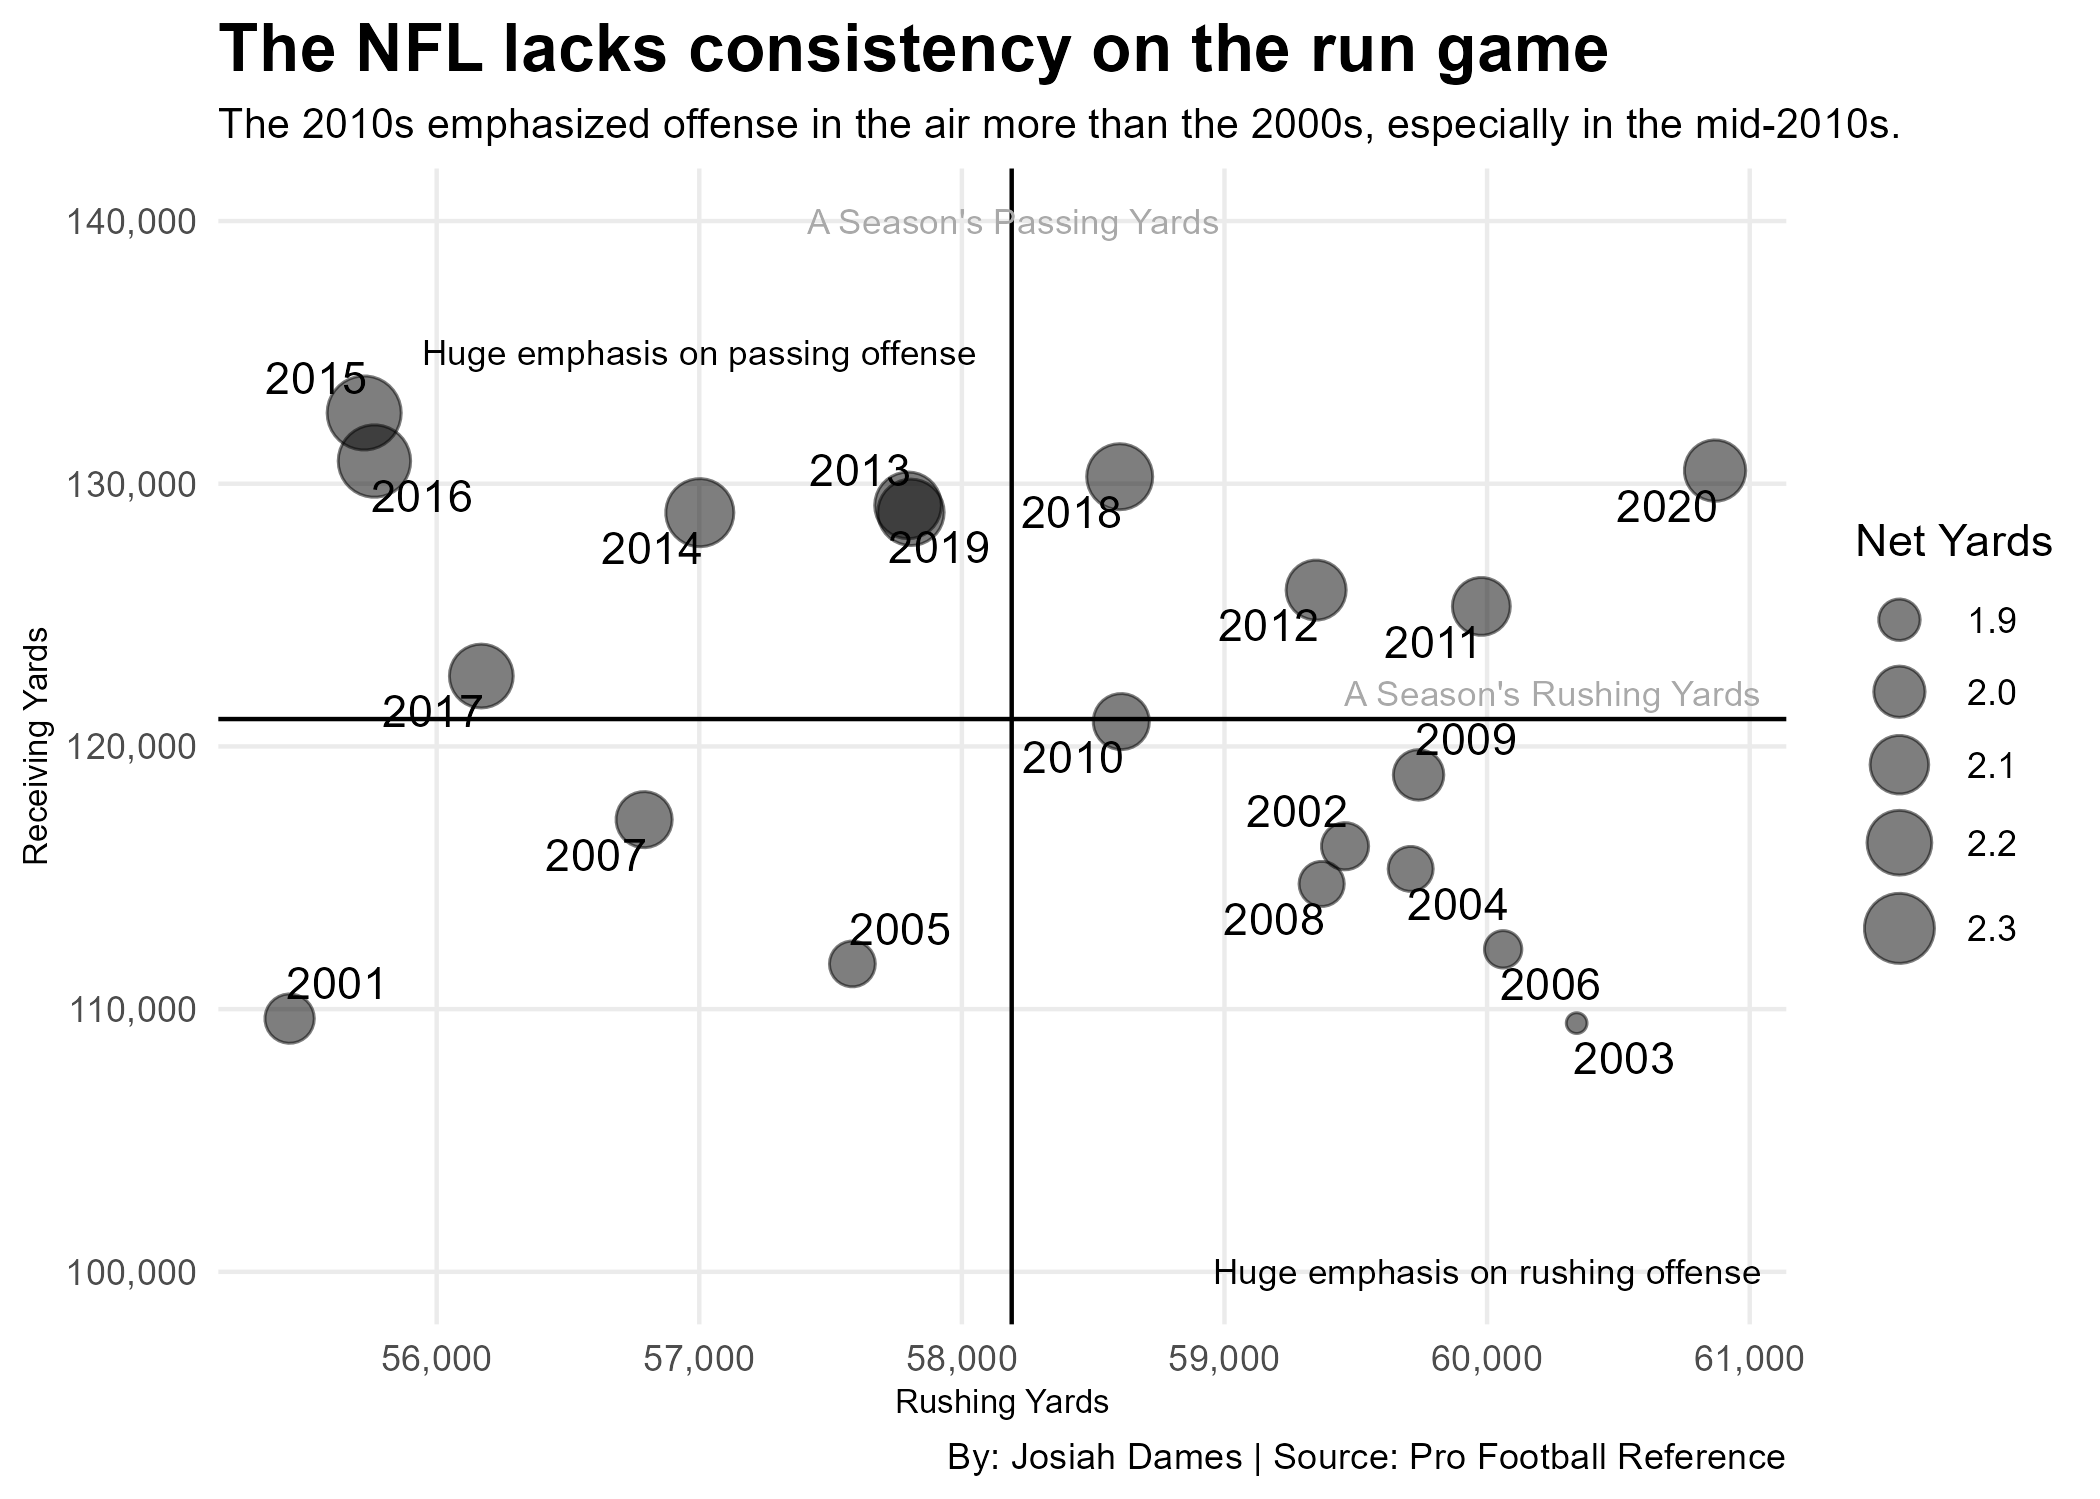
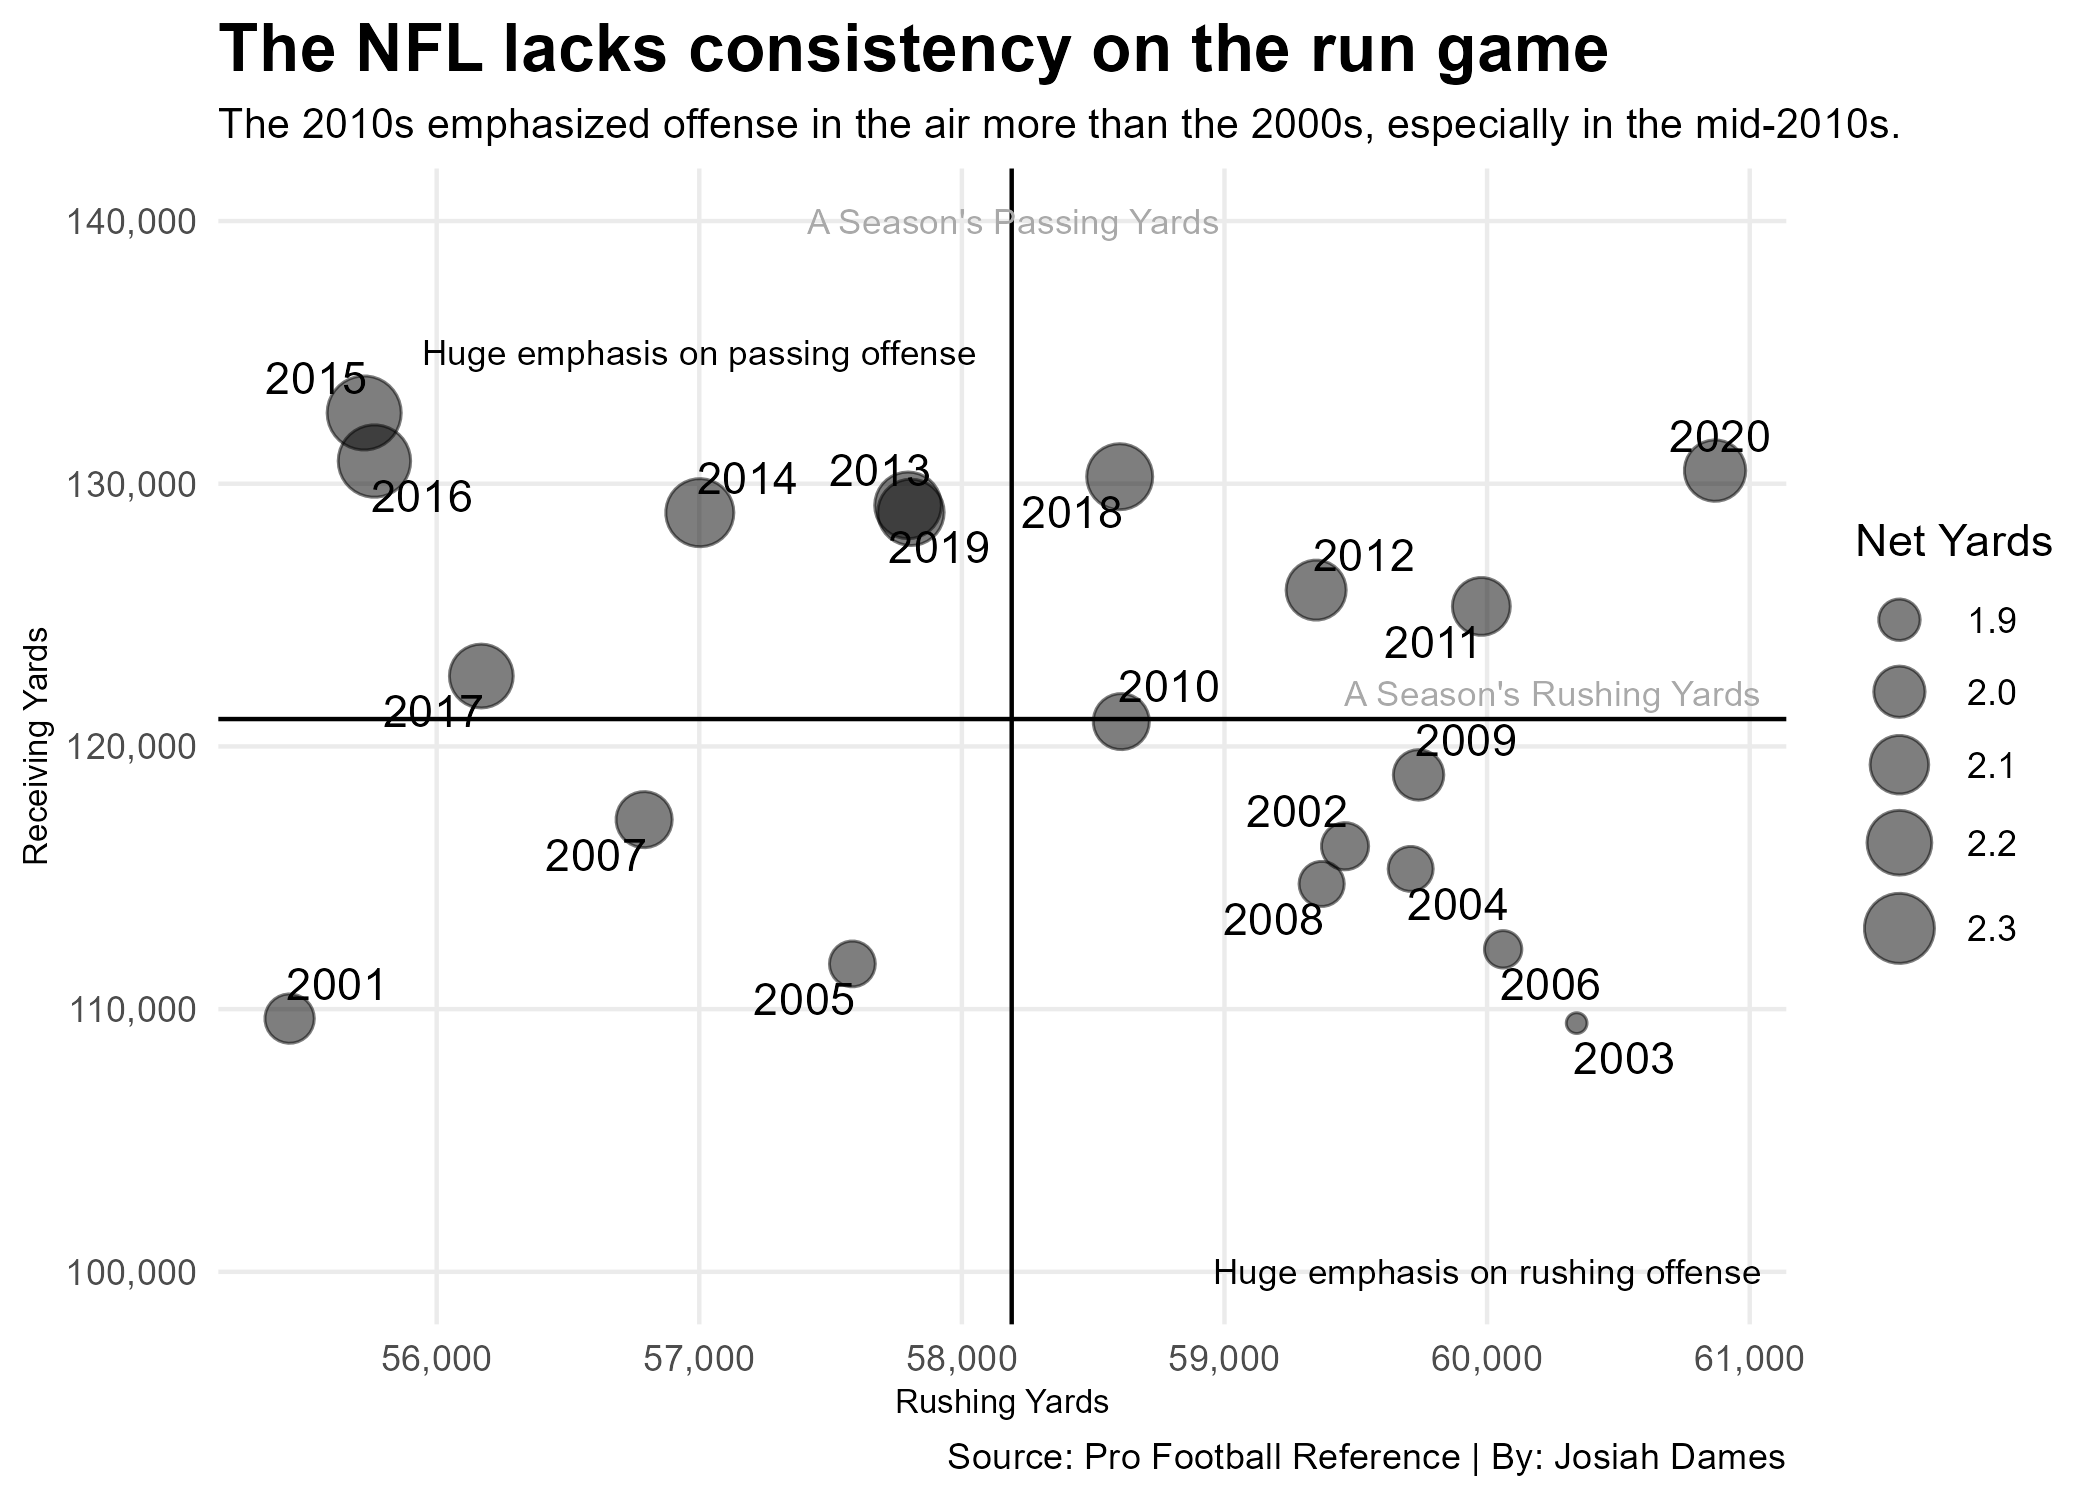
Initial Comment

diff --git a/posts/nfl-passing-or-rushing-league/index.html b/posts/nfl-passing-or-rushing-league/index.html
@@ -188,7 +188,6 @@ pre > code.sourceCode > span > a:first-child::before { text-decoration: underlin
 
 
 
-<p>happy</p>
 <p>When you think of the modern NFL, what players do you think of? Most of the time, people think of elite quarterbacks or wide receivers or running backs. The names range from Patrick Mahomes to Justin Jefferson to Derrick Henry.</p>
 <p>However, there was an issue brewing recently that sparked controversy in the NFL: Running backs weren’t being paid as well as they should. Running backs like Johnathan Taylor and Josh Jacobs were having contract issues throughout 2023. There were even kickers that were out earning running backs.</p>
 <p>This begs some questions: Is the position of running back dying in the NFL? Is the NFL focusing on the passing game? Let’s look at the last two decades, 2001-2010 and 2011-2020. With the exception of the 2001 season, each season had 32 teams playing. This was also before the NFL officially moved to a 17-game regular season.</p>
@@ -262,7 +261,7 @@ dbl (15): Rank, Year, Tms, RushingAttempts, RushingYards, RushingTD, Rushing...
 <span id="cb5-28"><a href="#cb5-28" aria-hidden="true" tabindex="-1"></a>    <span class="at">x =</span> <span class="st">"Rushing Yards"</span>, <span class="at">y =</span> <span class="st">"Receiving Yards"</span>,</span>
 <span id="cb5-29"><a href="#cb5-29" aria-hidden="true" tabindex="-1"></a>    <span class="at">title =</span> <span class="st">"The NFL lacks consistency on the run game"</span>,</span>
 <span id="cb5-30"><a href="#cb5-30" aria-hidden="true" tabindex="-1"></a>    <span class="at">subtitle =</span> <span class="st">"The 2010s emphasized offense in the air more than the 2000s, especially in the mid-2010s."</span>,</span>
-<span id="cb5-31"><a href="#cb5-31" aria-hidden="true" tabindex="-1"></a>    <span class="at">caption =</span> <span class="st">"By: Josiah Dames | Source: Pro Football Reference"</span></span>
+<span id="cb5-31"><a href="#cb5-31" aria-hidden="true" tabindex="-1"></a>    <span class="at">caption =</span> <span class="st">"Source: Pro Football Reference | By: Josiah Dames"</span></span>
 <span id="cb5-32"><a href="#cb5-32" aria-hidden="true" tabindex="-1"></a>  ) <span class="sc">+</span></span>
 <span id="cb5-33"><a href="#cb5-33" aria-hidden="true" tabindex="-1"></a>  <span class="fu">geom_text</span>(</span>
 <span id="cb5-34"><a href="#cb5-34" aria-hidden="true" tabindex="-1"></a>    <span class="fu">aes</span>(<span class="at">x =</span> <span class="dv">60250</span>, <span class="at">y =</span> <span class="dv">122000</span>),</span>
@@ -340,7 +339,7 @@ dbl (15): Rank, Year, Tms, RushingAttempts, RushingYards, RushingTD, Rushing...
 <span id="cb8-14"><a href="#cb8-14" aria-hidden="true" tabindex="-1"></a>    <span class="at">fill =</span> <span class="st">"Yards Per Attempt"</span>,</span>
 <span id="cb8-15"><a href="#cb8-15" aria-hidden="true" tabindex="-1"></a>    <span class="at">title =</span> <span class="st">"The run game failed in the 2010s"</span>,</span>
 <span id="cb8-16"><a href="#cb8-16" aria-hidden="true" tabindex="-1"></a>    <span class="at">subtitle =</span> <span class="st">"2004 had gained more yards while 2020 struggled to move the ball per attempt."</span>,</span>
-<span id="cb8-17"><a href="#cb8-17" aria-hidden="true" tabindex="-1"></a>    <span class="at">caption =</span> <span class="st">"By: Josiah Dames | Source: Pro Football Reference"</span></span>
+<span id="cb8-17"><a href="#cb8-17" aria-hidden="true" tabindex="-1"></a>    <span class="at">caption =</span> <span class="st">"Source: Pro Football Reference | By: Josiah Dames"</span></span>
 <span id="cb8-18"><a href="#cb8-18" aria-hidden="true" tabindex="-1"></a>  ) <span class="sc">+</span></span>
 <span id="cb8-19"><a href="#cb8-19" aria-hidden="true" tabindex="-1"></a>  <span class="fu">scale_y_continuous</span>(<span class="at">labels =</span> scales<span class="sc">::</span>comma) <span class="sc">+</span></span>
 <span id="cb8-20"><a href="#cb8-20" aria-hidden="true" tabindex="-1"></a>  <span class="fu">scale_x_continuous</span>(<span class="at">breaks=</span><span class="fu">c</span>(<span class="dv">2001</span><span class="sc">:</span><span class="dv">2020</span>)) <span class="sc">+</span></span>
@@ -374,7 +373,7 @@ dbl (15): Rank, Year, Tms, RushingAttempts, RushingYards, RushingTD, Rushing...
 <span id="cb9-8"><a href="#cb9-8" aria-hidden="true" tabindex="-1"></a>    <span class="at">fill =</span> <span class="st">"Yards Per Attempt"</span>,</span>
 <span id="cb9-9"><a href="#cb9-9" aria-hidden="true" tabindex="-1"></a>    <span class="at">title =</span> <span class="st">"Offense in the air consistently grows each year"</span>,</span>
 <span id="cb9-10"><a href="#cb9-10" aria-hidden="true" tabindex="-1"></a>    <span class="at">subtitle =</span> <span class="st">"2017 dropped the passing game's effectiveness but picked back up."</span>,</span>
-<span id="cb9-11"><a href="#cb9-11" aria-hidden="true" tabindex="-1"></a>    <span class="at">caption =</span> <span class="st">"By: Josiah Dames | Source: Pro Football Reference"</span></span>
+<span id="cb9-11"><a href="#cb9-11" aria-hidden="true" tabindex="-1"></a>    <span class="at">caption =</span> <span class="st">"Source: Pro Football Reference | By: Josiah Dames"</span></span>
 <span id="cb9-12"><a href="#cb9-12" aria-hidden="true" tabindex="-1"></a>  ) <span class="sc">+</span></span>
 <span id="cb9-13"><a href="#cb9-13" aria-hidden="true" tabindex="-1"></a>  <span class="fu">scale_y_continuous</span>(<span class="at">labels =</span> scales<span class="sc">::</span>comma) <span class="sc">+</span></span>
 <span id="cb9-14"><a href="#cb9-14" aria-hidden="true" tabindex="-1"></a>  <span class="fu">scale_x_continuous</span>(<span class="at">breaks=</span><span class="fu">c</span>(<span class="dv">2001</span><span class="sc">:</span><span class="dv">2020</span>)) <span class="sc">+</span></span>
@@ -427,7 +426,7 @@ dbl (15): Rank, Year, Tms, RushingAttempts, RushingYards, RushingTD, Rushing...
 <span id="cb10-25"><a href="#cb10-25" aria-hidden="true" tabindex="-1"></a>    <span class="at">fill =</span> <span class="st">"Season Yards"</span>,</span>
 <span id="cb10-26"><a href="#cb10-26" aria-hidden="true" tabindex="-1"></a>    <span class="at">title =</span> <span class="st">"2020 balanced rushing and receiving yards"</span>,</span>
 <span id="cb10-27"><a href="#cb10-27" aria-hidden="true" tabindex="-1"></a>    <span class="at">subtitle =</span> <span class="st">"The 2010s dominate receiving yards compared to the 2000s."</span>,</span>
-<span id="cb10-28"><a href="#cb10-28" aria-hidden="true" tabindex="-1"></a>    <span class="at">caption =</span> <span class="st">"By: Josiah Dames | Source: Pro Football Reference"</span></span>
+<span id="cb10-28"><a href="#cb10-28" aria-hidden="true" tabindex="-1"></a>    <span class="at">caption =</span> <span class="st">"Source: Pro Football Reference | By: Josiah Dames"</span></span>
 <span id="cb10-29"><a href="#cb10-29" aria-hidden="true" tabindex="-1"></a>  ) <span class="sc">+</span></span>
 <span id="cb10-30"><a href="#cb10-30" aria-hidden="true" tabindex="-1"></a>  <span class="fu">scale_y_continuous</span>(<span class="at">labels =</span> scales<span class="sc">::</span>comma) <span class="sc">+</span></span>
 <span id="cb10-31"><a href="#cb10-31" aria-hidden="true" tabindex="-1"></a>  <span class="fu">theme_minimal</span>() <span class="sc">+</span></span>
@@ -477,16 +476,17 @@ dbl (15): Rank, Year, Tms, RushingAttempts, RushingYards, RushingTD, Rushing...
 <span id="cb11-25"><a href="#cb11-25" aria-hidden="true" tabindex="-1"></a>    <span class="at">fill =</span> <span class="st">"Yards Per Attempt"</span>,</span>
 <span id="cb11-26"><a href="#cb11-26" aria-hidden="true" tabindex="-1"></a>    <span class="at">title =</span> <span class="st">"2011 achieved more yards per attempt on both sides"</span>,</span>
 <span id="cb11-27"><a href="#cb11-27" aria-hidden="true" tabindex="-1"></a>    <span class="at">subtitle =</span> <span class="st">"2004 gained more yards on average compared to 2020 per attempt."</span>,</span>
-<span id="cb11-28"><a href="#cb11-28" aria-hidden="true" tabindex="-1"></a>    <span class="at">caption =</span> <span class="st">"By: Josiah Dames | Source: Pro Football Reference"</span></span>
+<span id="cb11-28"><a href="#cb11-28" aria-hidden="true" tabindex="-1"></a>    <span class="at">caption =</span> <span class="st">"Source: Pro Football Reference | By: Josiah Dames"</span></span>
 <span id="cb11-29"><a href="#cb11-29" aria-hidden="true" tabindex="-1"></a>  ) <span class="sc">+</span></span>
 <span id="cb11-30"><a href="#cb11-30" aria-hidden="true" tabindex="-1"></a>  <span class="fu">scale_y_continuous</span>(<span class="at">labels =</span> scales<span class="sc">::</span>comma) <span class="sc">+</span></span>
-<span id="cb11-31"><a href="#cb11-31" aria-hidden="true" tabindex="-1"></a>  <span class="fu">theme_minimal</span>() <span class="sc">+</span></span>
-<span id="cb11-32"><a href="#cb11-32" aria-hidden="true" tabindex="-1"></a>  <span class="fu">theme</span>(</span>
-<span id="cb11-33"><a href="#cb11-33" aria-hidden="true" tabindex="-1"></a>    <span class="at">plot.title =</span> <span class="fu">element_text</span>(<span class="at">size =</span> <span class="dv">16</span>, <span class="at">face =</span> <span class="st">"bold"</span>),</span>
-<span id="cb11-34"><a href="#cb11-34" aria-hidden="true" tabindex="-1"></a>    <span class="at">plot.subtitle =</span> <span class="fu">element_text</span>(<span class="at">size =</span> <span class="dv">10</span>),</span>
-<span id="cb11-35"><a href="#cb11-35" aria-hidden="true" tabindex="-1"></a>    <span class="at">axis.title =</span> <span class="fu">element_text</span>(<span class="at">size =</span> <span class="dv">8</span>),</span>
-<span id="cb11-36"><a href="#cb11-36" aria-hidden="true" tabindex="-1"></a>    <span class="at">panel.grid.minor =</span> <span class="fu">element_blank</span>()</span>
-<span id="cb11-37"><a href="#cb11-37" aria-hidden="true" tabindex="-1"></a>  )</span></code><button title="Copy to Clipboard" class="code-copy-button"><i class="bi"></i></button></pre></div>
+<span id="cb11-31"><a href="#cb11-31" aria-hidden="true" tabindex="-1"></a>  <span class="fu">scale_y_continuous</span>(<span class="at">breaks=</span><span class="fu">c</span>(<span class="dv">1</span><span class="sc">:</span><span class="dv">15</span>)) <span class="sc">+</span></span>
+<span id="cb11-32"><a href="#cb11-32" aria-hidden="true" tabindex="-1"></a>  <span class="fu">theme_minimal</span>() <span class="sc">+</span></span>
+<span id="cb11-33"><a href="#cb11-33" aria-hidden="true" tabindex="-1"></a>  <span class="fu">theme</span>(</span>
+<span id="cb11-34"><a href="#cb11-34" aria-hidden="true" tabindex="-1"></a>    <span class="at">plot.title =</span> <span class="fu">element_text</span>(<span class="at">size =</span> <span class="dv">16</span>, <span class="at">face =</span> <span class="st">"bold"</span>),</span>
+<span id="cb11-35"><a href="#cb11-35" aria-hidden="true" tabindex="-1"></a>    <span class="at">plot.subtitle =</span> <span class="fu">element_text</span>(<span class="at">size =</span> <span class="dv">10</span>),</span>
+<span id="cb11-36"><a href="#cb11-36" aria-hidden="true" tabindex="-1"></a>    <span class="at">axis.title =</span> <span class="fu">element_text</span>(<span class="at">size =</span> <span class="dv">8</span>),</span>
+<span id="cb11-37"><a href="#cb11-37" aria-hidden="true" tabindex="-1"></a>    <span class="at">panel.grid.minor =</span> <span class="fu">element_blank</span>()</span>
+<span id="cb11-38"><a href="#cb11-38" aria-hidden="true" tabindex="-1"></a>  )</span></code><button title="Copy to Clipboard" class="code-copy-button"><i class="bi"></i></button></pre></div>
 </details>
 <div class="cell-output-display">
 <div>

diff --git a/index.html b/index.html
@@ -205,7 +205,7 @@ window.Quarto = {
 
 <div class="quarto-listing quarto-listing-container-default" id="listing-listing">
 <div class="list quarto-listing-default">
-<div class="quarto-post image-right" data-index="0" data-categories="NFL" data-listing-date-sort="1731823200000" data-listing-file-modified-sort="1731632257714" data-listing-date-modified-sort="NaN" data-listing-reading-time-sort="8" data-listing-word-count-sort="1490">
+<div class="quarto-post image-right" data-index="0" data-categories="NFL" data-listing-date-sort="1731823200000" data-listing-file-modified-sort="1731632686229" data-listing-date-modified-sort="NaN" data-listing-reading-time-sort="8" data-listing-word-count-sort="1493">
 <div class="thumbnail">
 <p><a href="./posts/nfl-passing-or-rushing-league/index.html" class="no-external"></a></p><a href="./posts/nfl-passing-or-rushing-league/index.html" class="no-external">
 <p><img loading="lazy" src="./posts/nfl-passing-or-rushing-league/image.png" class="thumbnail-image"></p>
@@ -224,7 +224,7 @@ NFL
 </div>
 </div>
 <div class="listing-description">
-<a href="./posts/nfl-passing-or-rushing-league/index.html" class="no-external">happy</a>
+<a href="./posts/nfl-passing-or-rushing-league/index.html" class="no-external">When you think of the modern NFL, what players do you think of? Most of the time, people think of elite quarterbacks or wide receivers or running backs. The names range from…</a>
 </div>
 </div>
 <div class="metadata">
